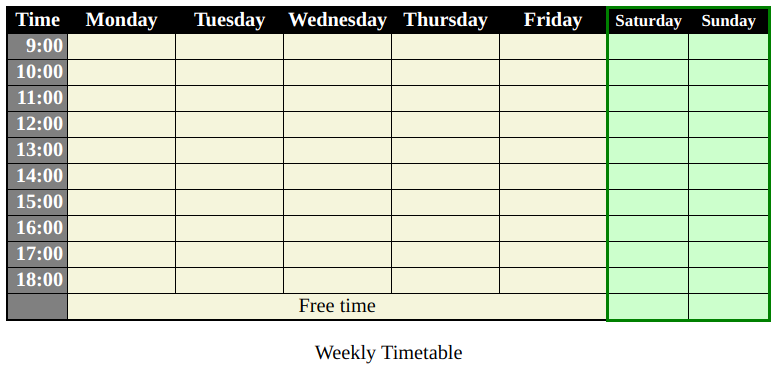
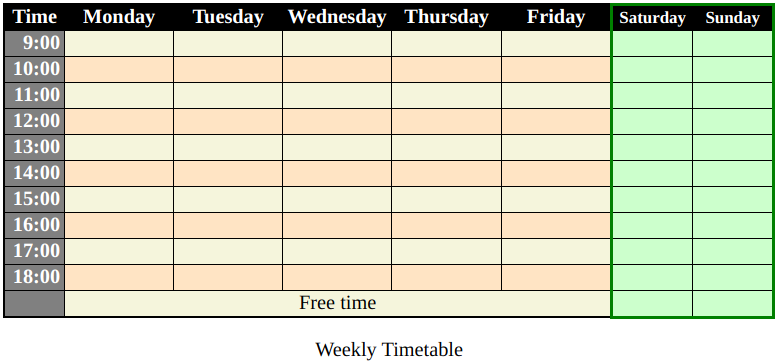
Add zebra stripes to weekdays

Changed region(s): [[0.0, 0.0, 1.0, 0.8788], [0.401, 0.9394, 0.617, 1.0], [0.4936, 0.4848, 0.5244, 0.5152]]

diff --git a/README.md b/README.md
@@ -18,8 +18,10 @@ The index.html file in this repository contains a table with the days of the wee
 5. Give the table head a dark background
 6. Make the text of row and column headers white
 7. Set `text-align: right` for all the numbers in the Time column
-8. Make the Weekday columns beige
-9.  Make the Weekend columns a very pale green
-10. Place a green border around the whole weekend section
-11. Make the text for Saturday and Sunday smaller
-12. Reduce the width of the Saturday and Sunday columns
+8.  Make the Weekend columns a very pale green
+9.  Place a green border around the whole weekend section
+10. Make the text for Saturday and Sunday smaller
+11. Reduce the width of the Saturday and Sunday columns
+12. Make the Weekday columns beige
+13. Give the `td` elements in even-numbered rows a bisque background
+14. Use `:not(...)` in your selector for even-numbered rows to prevent the `td` elements in the Weekend columns from adopting the bisque background
